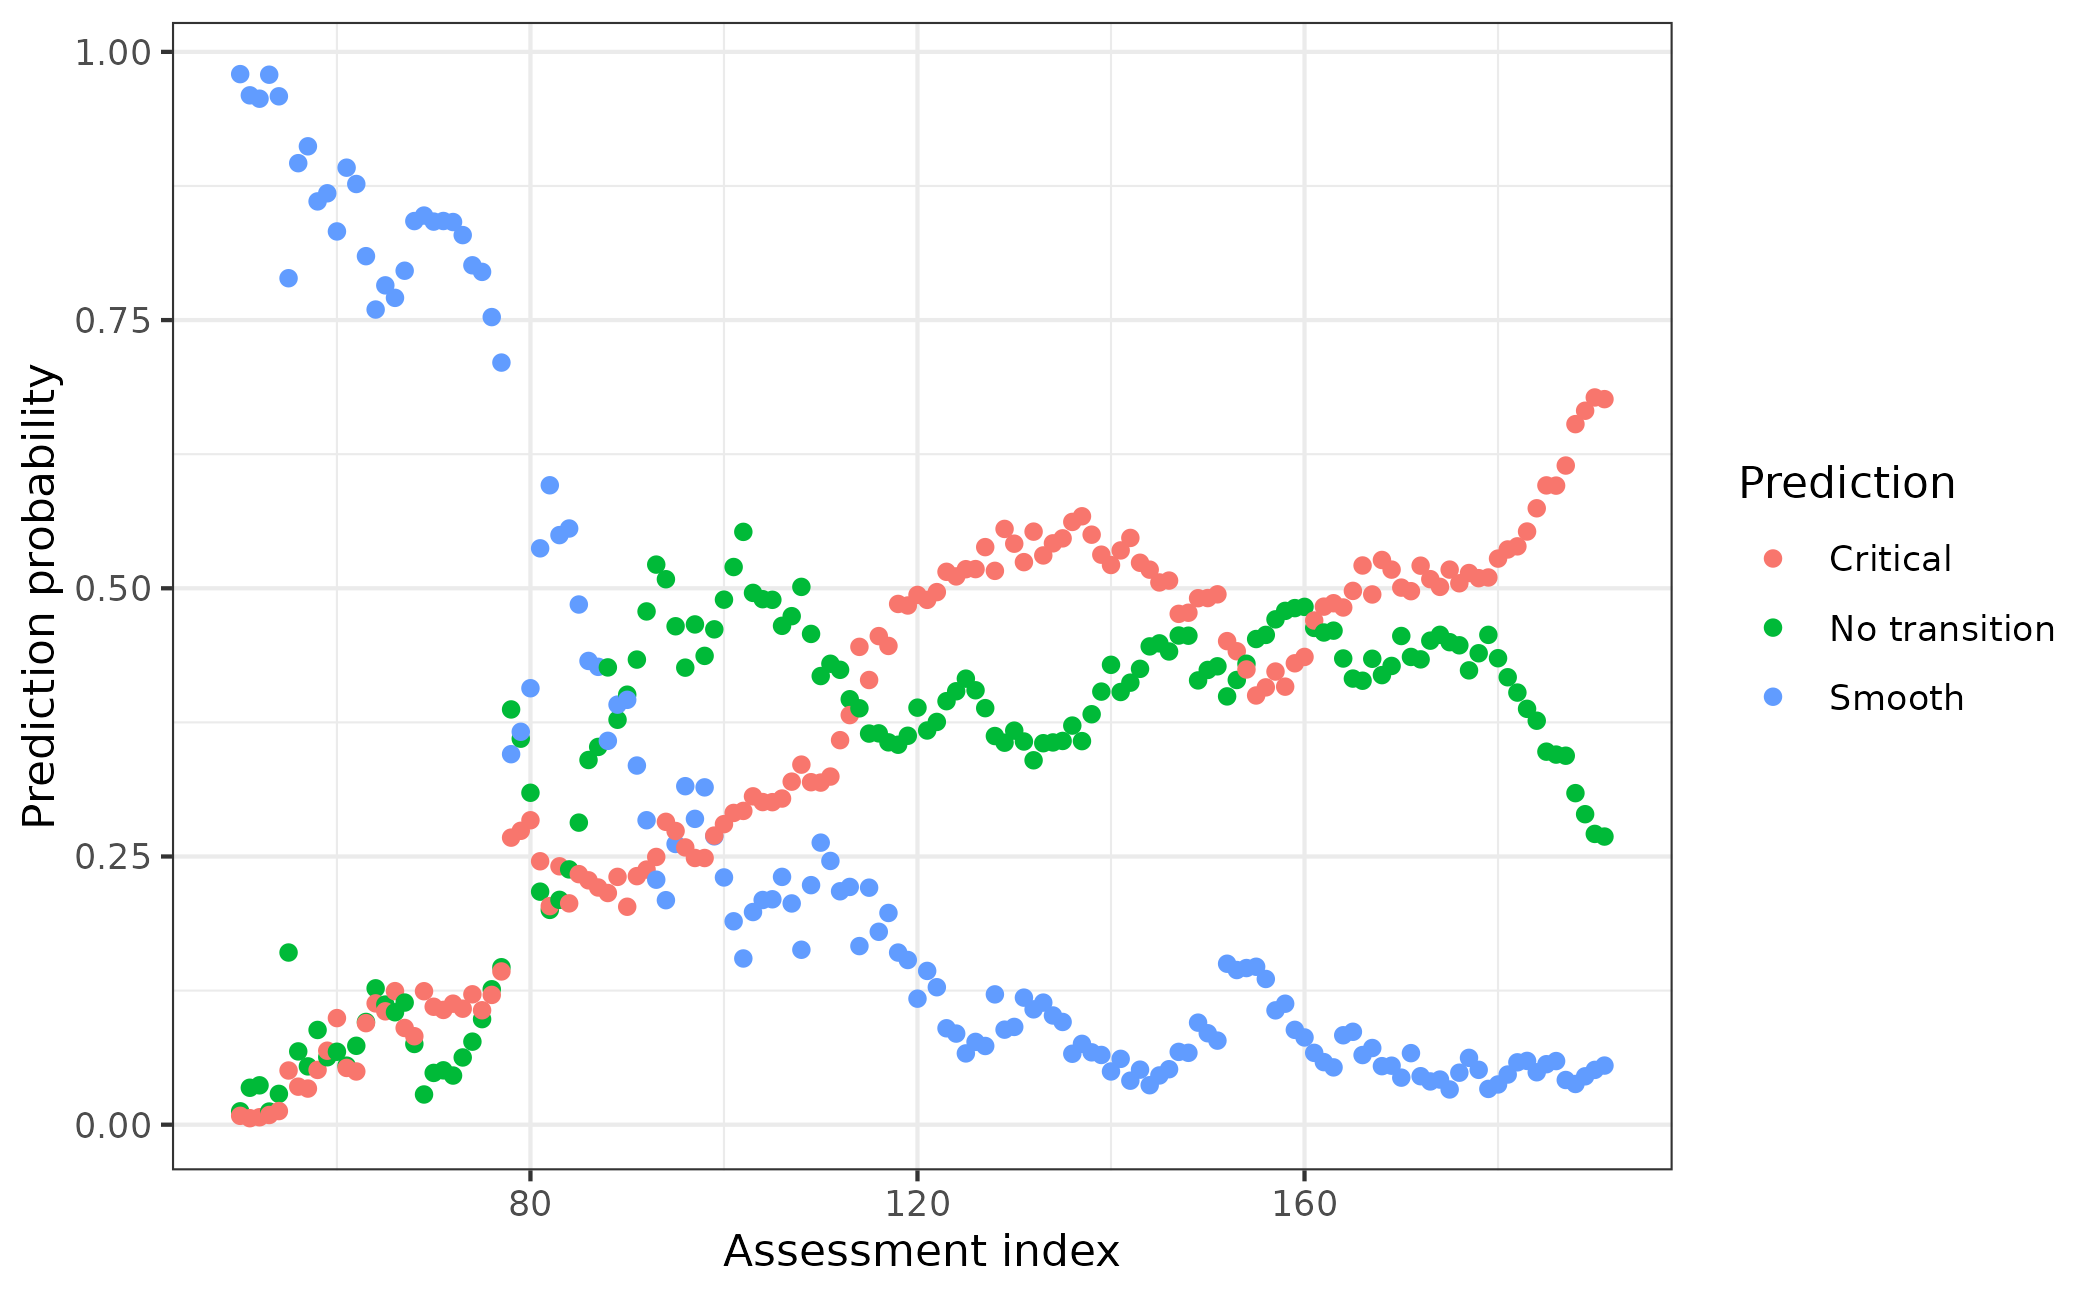
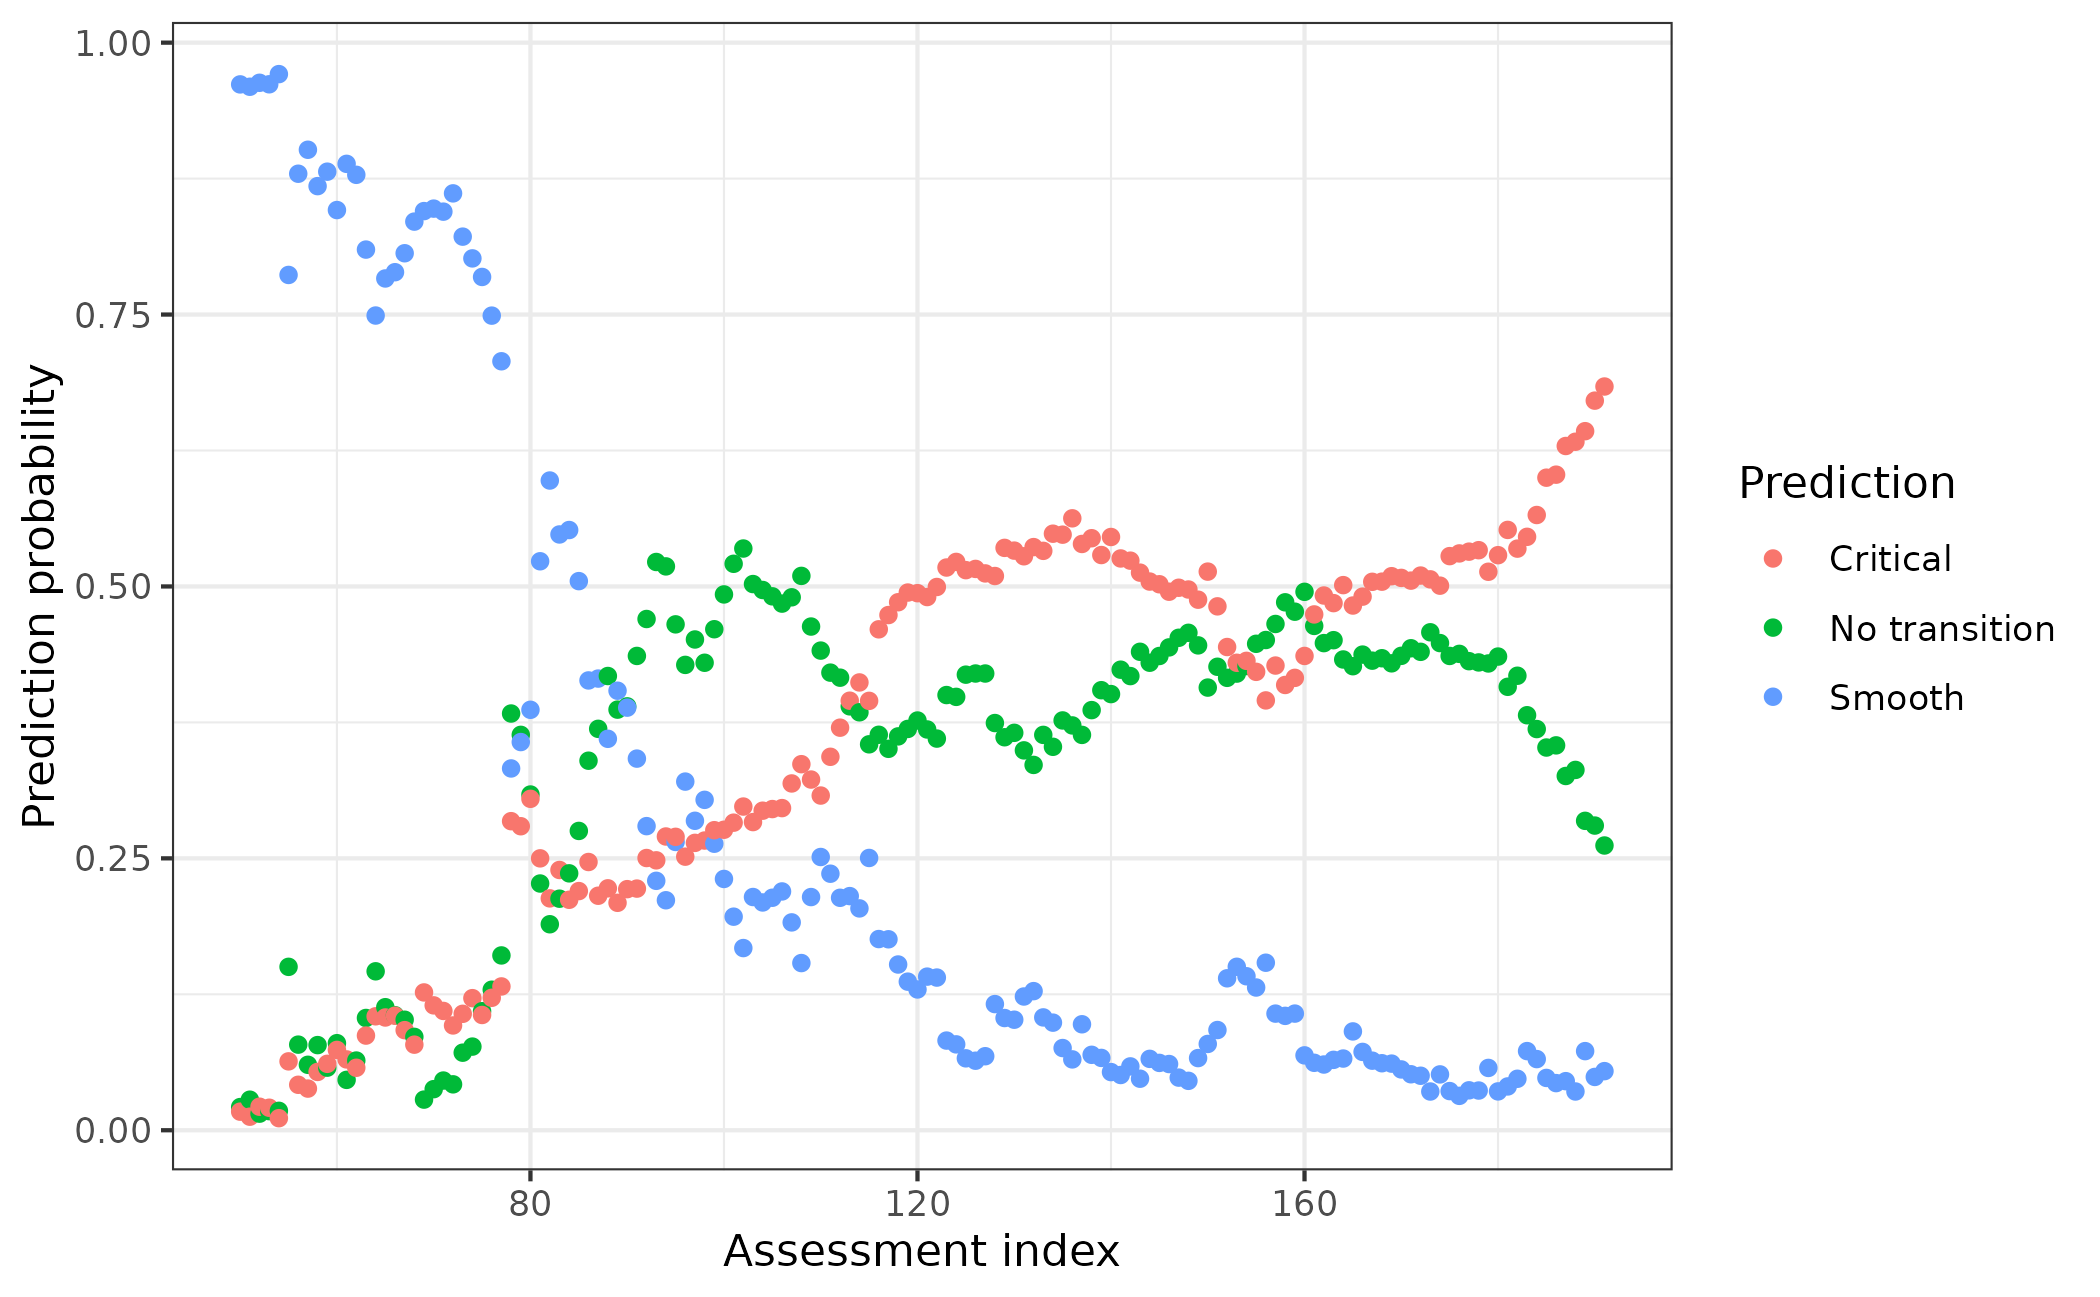
Deploying to gh-pages from @ duncanobrien/EWSmethods@9c9c3ca621b05be7fa77b6456b3284cc308257f2 🚀

diff --git a/articles/ews_assessments.html b/articles/ews_assessments.html
@@ -458,13 +458,15 @@ Rolling (A) vs expanding (C) window concept diagram. Panels B and D introduce th
 <div class="sourceCode" id="cb12"><pre class="downlit sourceCode r">
 <code class="sourceCode R"><span><span class="va">spp_data</span> <span class="op">&lt;-</span> <span class="fu"><a href="https://rdrr.io/r/base/matrix.html" class="external-link">matrix</a></span><span class="op">(</span>nrow <span class="op">=</span> <span class="fl">5</span><span class="op">*</span><span class="fl">12</span>, ncol <span class="op">=</span> <span class="fl">5</span><span class="op">)</span></span>
 <span></span>
+<span><span class="va">seasonal_cycle</span> <span class="op">&lt;-</span>  <span class="fl">20</span><span class="op">*</span><span class="fu"><a href="https://rdrr.io/r/base/Trig.html" class="external-link">sin</a></span><span class="op">(</span><span class="fl">2</span><span class="op">*</span><span class="va">pi</span><span class="op">*</span><span class="op">(</span><span class="fl">1</span><span class="op">:</span><span class="fl">5</span><span class="op">*</span><span class="fl">12</span><span class="op">)</span><span class="op">/</span><span class="fl">12</span><span class="op">)</span></span>
+<span></span>
 <span><span class="va">spp_data</span> <span class="op">&lt;-</span> <span class="fu"><a href="https://rdrr.io/r/base/lapply.html" class="external-link">sapply</a></span><span class="op">(</span><span class="fl">1</span><span class="op">:</span><span class="fu"><a href="https://rdrr.io/r/base/dim.html" class="external-link">dim</a></span><span class="op">(</span><span class="va">spp_data</span><span class="op">)</span><span class="op">[</span><span class="fl">2</span><span class="op">]</span>, <span class="kw">function</span><span class="op">(</span><span class="va">x</span><span class="op">)</span><span class="op">{</span></span>
 <span></span>
-<span>  <span class="va">spp_data</span><span class="op">[</span>,<span class="va">x</span><span class="op">]</span> <span class="op">&lt;-</span> <span class="fu"><a href="https://rdrr.io/r/stats/Normal.html" class="external-link">rnorm</a></span><span class="op">(</span><span class="fl">5</span><span class="op">*</span><span class="fl">12</span>,mean<span class="op">=</span><span class="fl">20</span>,sd<span class="op">=</span><span class="fl">5</span><span class="op">)</span></span>
+<span>  <span class="va">spp_data</span><span class="op">[</span>,<span class="va">x</span><span class="op">]</span> <span class="op">&lt;-</span> <span class="fu"><a href="https://rdrr.io/r/stats/ts.html" class="external-link">ts</a></span><span class="op">(</span><span class="fu"><a href="https://rdrr.io/r/stats/Normal.html" class="external-link">rnorm</a></span><span class="op">(</span><span class="fl">5</span><span class="op">*</span><span class="fl">12</span>,mean <span class="op">=</span> <span class="fl">20</span>, sd <span class="op">=</span> <span class="fl">3</span><span class="op">)</span> <span class="op">+</span> <span class="va">seasonal_cycle</span>, freq <span class="op">=</span> <span class="fl">12</span>, start <span class="op">=</span> <span class="fu"><a href="https://rdrr.io/r/base/c.html" class="external-link">c</a></span><span class="op">(</span><span class="fl">2000</span>, <span class="fl">1</span><span class="op">)</span><span class="op">)</span> <span class="co">#add seasonal cycle to random noise</span></span>
 <span>  </span>
 <span>  <span class="op">}</span><span class="op">)</span></span>
 <span></span>
-<span><span class="va">multi_spp_data</span> <span class="op">&lt;-</span> <span class="fu"><a href="https://rdrr.io/r/base/cbind.html" class="external-link">cbind</a></span><span class="op">(</span><span class="st">"time"</span> <span class="op">=</span> <span class="fu"><a href="https://rdrr.io/r/base/seq.html" class="external-link">seq</a></span><span class="op">(</span><span class="fu">base</span><span class="fu">::</span><span class="fu"><a href="https://rdrr.io/r/base/as.Date.html" class="external-link">as.Date</a></span><span class="op">(</span><span class="st">'2000/01/01'</span><span class="op">)</span>, <span class="fu">base</span><span class="fu">::</span><span class="fu"><a href="https://rdrr.io/r/base/as.Date.html" class="external-link">as.Date</a></span><span class="op">(</span><span class="st">'2004/12/01'</span><span class="op">)</span>, by <span class="op">=</span> <span class="st">"month"</span><span class="op">)</span>, <span class="fu"><a href="https://rdrr.io/r/base/as.data.frame.html" class="external-link">as.data.frame</a></span><span class="op">(</span><span class="va">spp_data</span><span class="op">)</span><span class="op">)</span></span>
+<span><span class="va">multi_spp_data</span> <span class="op">&lt;-</span> <span class="fu"><a href="https://rdrr.io/r/base/cbind.html" class="external-link">cbind</a></span><span class="op">(</span><span class="st">"time"</span> <span class="op">=</span> <span class="fu">base</span><span class="fu">::</span><span class="fu"><a href="https://rdrr.io/r/base/seq.html" class="external-link">seq</a></span><span class="op">(</span><span class="fu">base</span><span class="fu">::</span><span class="fu"><a href="https://rdrr.io/r/base/as.Date.html" class="external-link">as.Date</a></span><span class="op">(</span><span class="st">'2000/01/01'</span><span class="op">)</span>, <span class="fu">base</span><span class="fu">::</span><span class="fu"><a href="https://rdrr.io/r/base/as.Date.html" class="external-link">as.Date</a></span><span class="op">(</span><span class="st">'2004/12/01'</span><span class="op">)</span>, by <span class="op">=</span> <span class="st">"month"</span><span class="op">)</span>, <span class="fu"><a href="https://rdrr.io/r/base/as.data.frame.html" class="external-link">as.data.frame</a></span><span class="op">(</span><span class="va">spp_data</span><span class="op">)</span><span class="op">)</span></span>
 <span>  </span>
 <span><span class="fu"><a href="https://rdrr.io/r/graphics/matplot.html" class="external-link">matplot</a></span><span class="op">(</span>x <span class="op">=</span> <span class="va">multi_spp_data</span><span class="op">$</span><span class="va">time</span>, y <span class="op">=</span> <span class="va">multi_spp_data</span><span class="op">[</span>,<span class="fl">2</span><span class="op">:</span><span class="fl">6</span><span class="op">]</span>, type <span class="op">=</span> <span class="st">"l"</span>, xlab <span class="op">=</span> <span class="st">"Date"</span>, ylab <span class="op">=</span> <span class="st">"Density"</span>,  main <span class="op">=</span> <span class="st">"Seasonal five species community"</span><span class="op">)</span></span></code></pre></div>
 <p><img src="ews_assessments_files/figure-html/create_seasonal-1.png" width="1050"></p>
@@ -476,7 +478,7 @@ Rolling (A) vs expanding (C) window concept diagram. Panels B and D introduce th
 <span><span class="fu"><a href="https://rdrr.io/r/graphics/matplot.html" class="external-link">matplot</a></span><span class="op">(</span>x <span class="op">=</span> <span class="va">deseas_dat</span><span class="op">$</span><span class="va">date</span>, y <span class="op">=</span> <span class="va">deseas_dat</span><span class="op">[</span>,<span class="fl">2</span><span class="op">:</span><span class="fl">6</span><span class="op">]</span>, type <span class="op">=</span> <span class="st">"l"</span>, xlab <span class="op">=</span> <span class="st">"Date"</span>, ylab <span class="op">=</span> <span class="st">"Density"</span>,  main <span class="op">=</span> <span class="st">"Deseasoned five species community"</span><span class="op">)</span></span></code></pre></div>
 <p><img src="ews_assessments_files/figure-html/deseason-1.png" width="1050"></p>
 <p>The <code>method = "stl"</code> argument shows that we have chosen to deseason using LOESS (locally weighted smoothing) by estimating the cyclical component for each time series and then subtracting it. <code>method = "decompose"/method = "x11"</code> perform a similar process but use classical decomposition and x11 ARIMA modelling (Ladiray &amp; Quenneville, 2001) respectively. <code>method = "average"</code> is the simplest method where the average increment value is estimated for each unique increment and that value subtracted from each data point that shares that increment key. <code><a href="../reference/deseason_ts.html">deseason_ts()</a></code> simply provides the default procedure for each of these methods and consequently we visualising the results of <code><a href="../reference/deseason_ts.html">deseason_ts()</a></code> before using it in downstream analyses.</p>
-<p>In our example, we can see that large monthly values shared across multiple years have been shrunk - e.g. the red dashed species at ~2001 - whereas anomalous values have been maintained - e.g. the green dotted species at ~2003.5.</p>
+<p>In our example, we can see that large monthly values shared across multiple years have been shrunk - e.g. the black dashed species at ~2001 - whereas anomalous values have been maintained - e.g. the green dotted species at ~2002.75.</p>
 <p><br></p>
 </div>
 </div>

diff --git a/reference/multiEWS.html b/reference/multiEWS.html
@@ -146,7 +146,7 @@
 <span class="r-in"><span> method <span class="op">=</span> <span class="st">"rolling"</span>,</span></span>
 <span class="r-in"><span> winsize <span class="op">=</span> <span class="fl">50</span>,</span></span>
 <span class="r-in"><span> ggplotIt <span class="op">=</span><span class="cn">FALSE</span><span class="op">)</span></span></span>
-<span class="r-wrn co"><span class="r-pr">#&gt;</span> <span class="warning">Warning: </span>the standard deviation is zero</span>
+<span class="r-wrn co"><span class="r-pr">#&gt;</span> <span class="warning">Warning: </span>Cannot compute exact p-value with ties</span>
 <span class="r-in"><span></span></span>
 <span class="r-in"><span><span class="co">#Expanding window early warning signal assessment of</span></span></span>
 <span class="r-in"><span><span class="co">#the ecosystem, with plotting.</span></span></span>

diff --git a/articles/using_ewsnet.html b/articles/using_ewsnet.html
@@ -167,7 +167,7 @@
 <span></span>
 <span><span class="va">ewsnet_prediction</span></span>
 <span><span class="co">#&gt;                  pred no_trans_prob smooth_trans_prob critical_trans_prob</span></span>
-<span><span class="co">#&gt; 1 Critical Transition     0.2506219        0.06488329           0.6844949</span></span></code></pre></div>
+<span><span class="co">#&gt; 1 Critical Transition     0.2503765        0.06338059           0.6862429</span></span></code></pre></div>
 <div class="section level4">
 <h4 id="interpreting-ewsnet">Interpreting EWSNet<a class="anchor" aria-label="anchor" href="#interpreting-ewsnet"></a>
 </h4>
